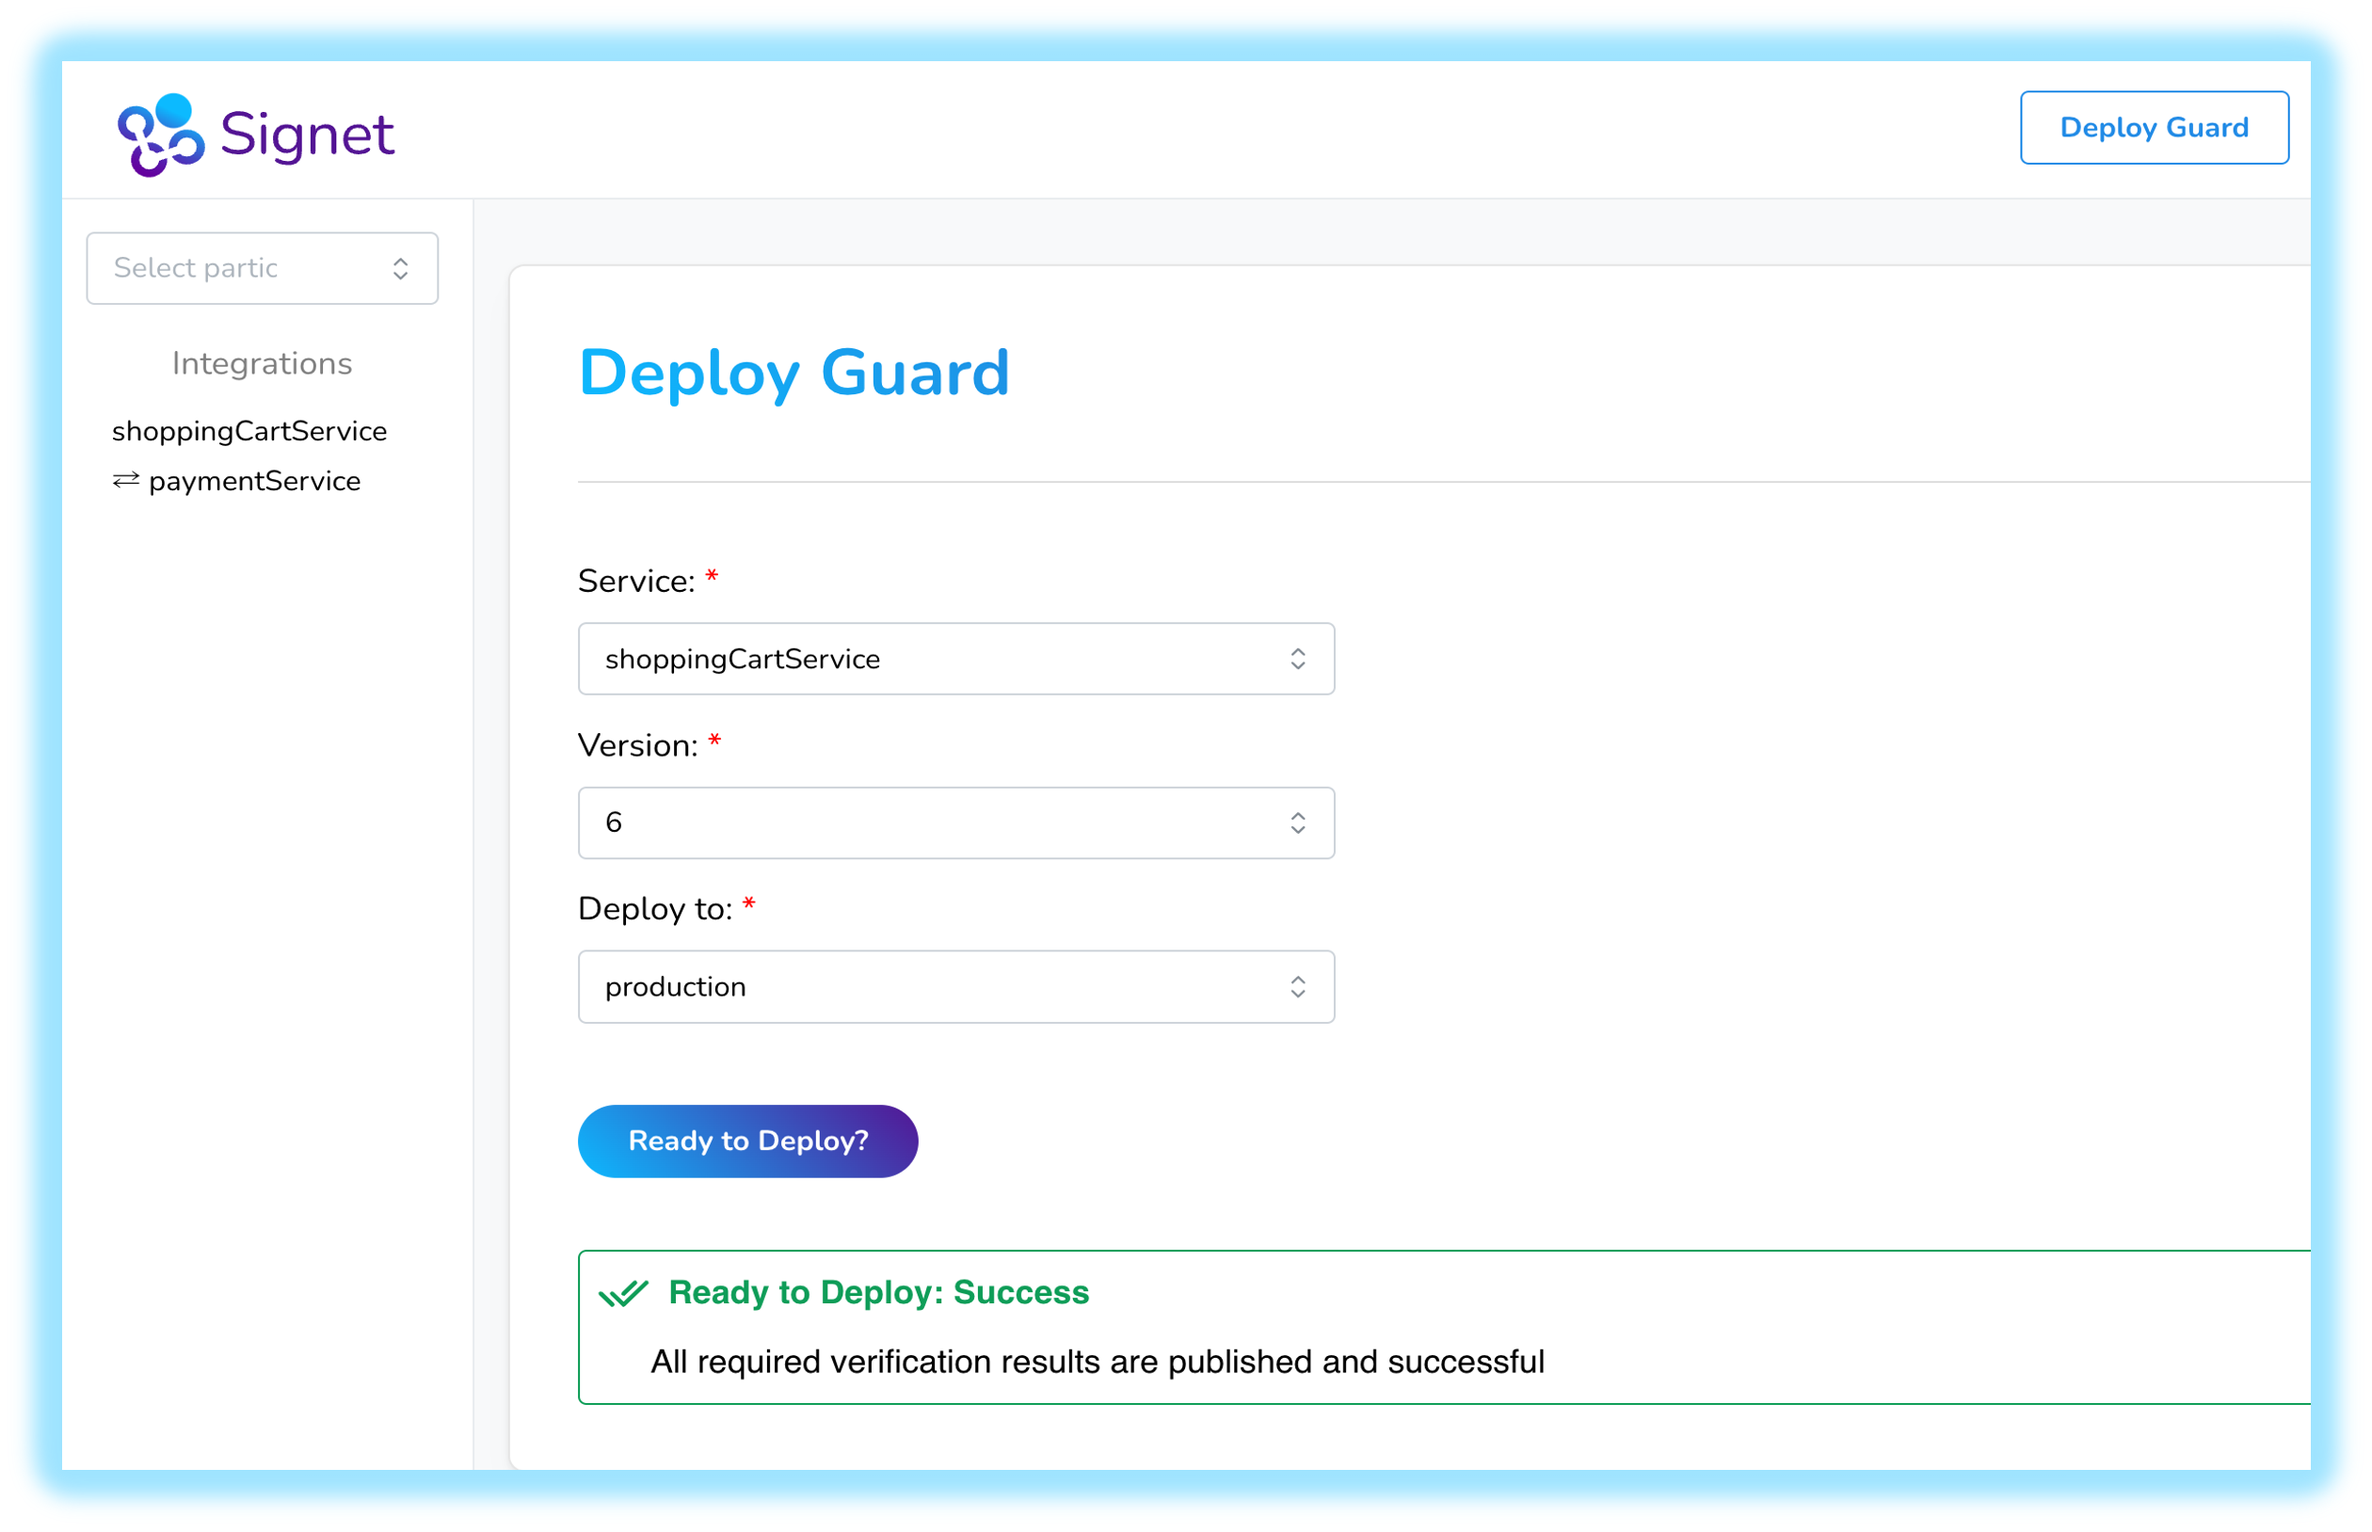
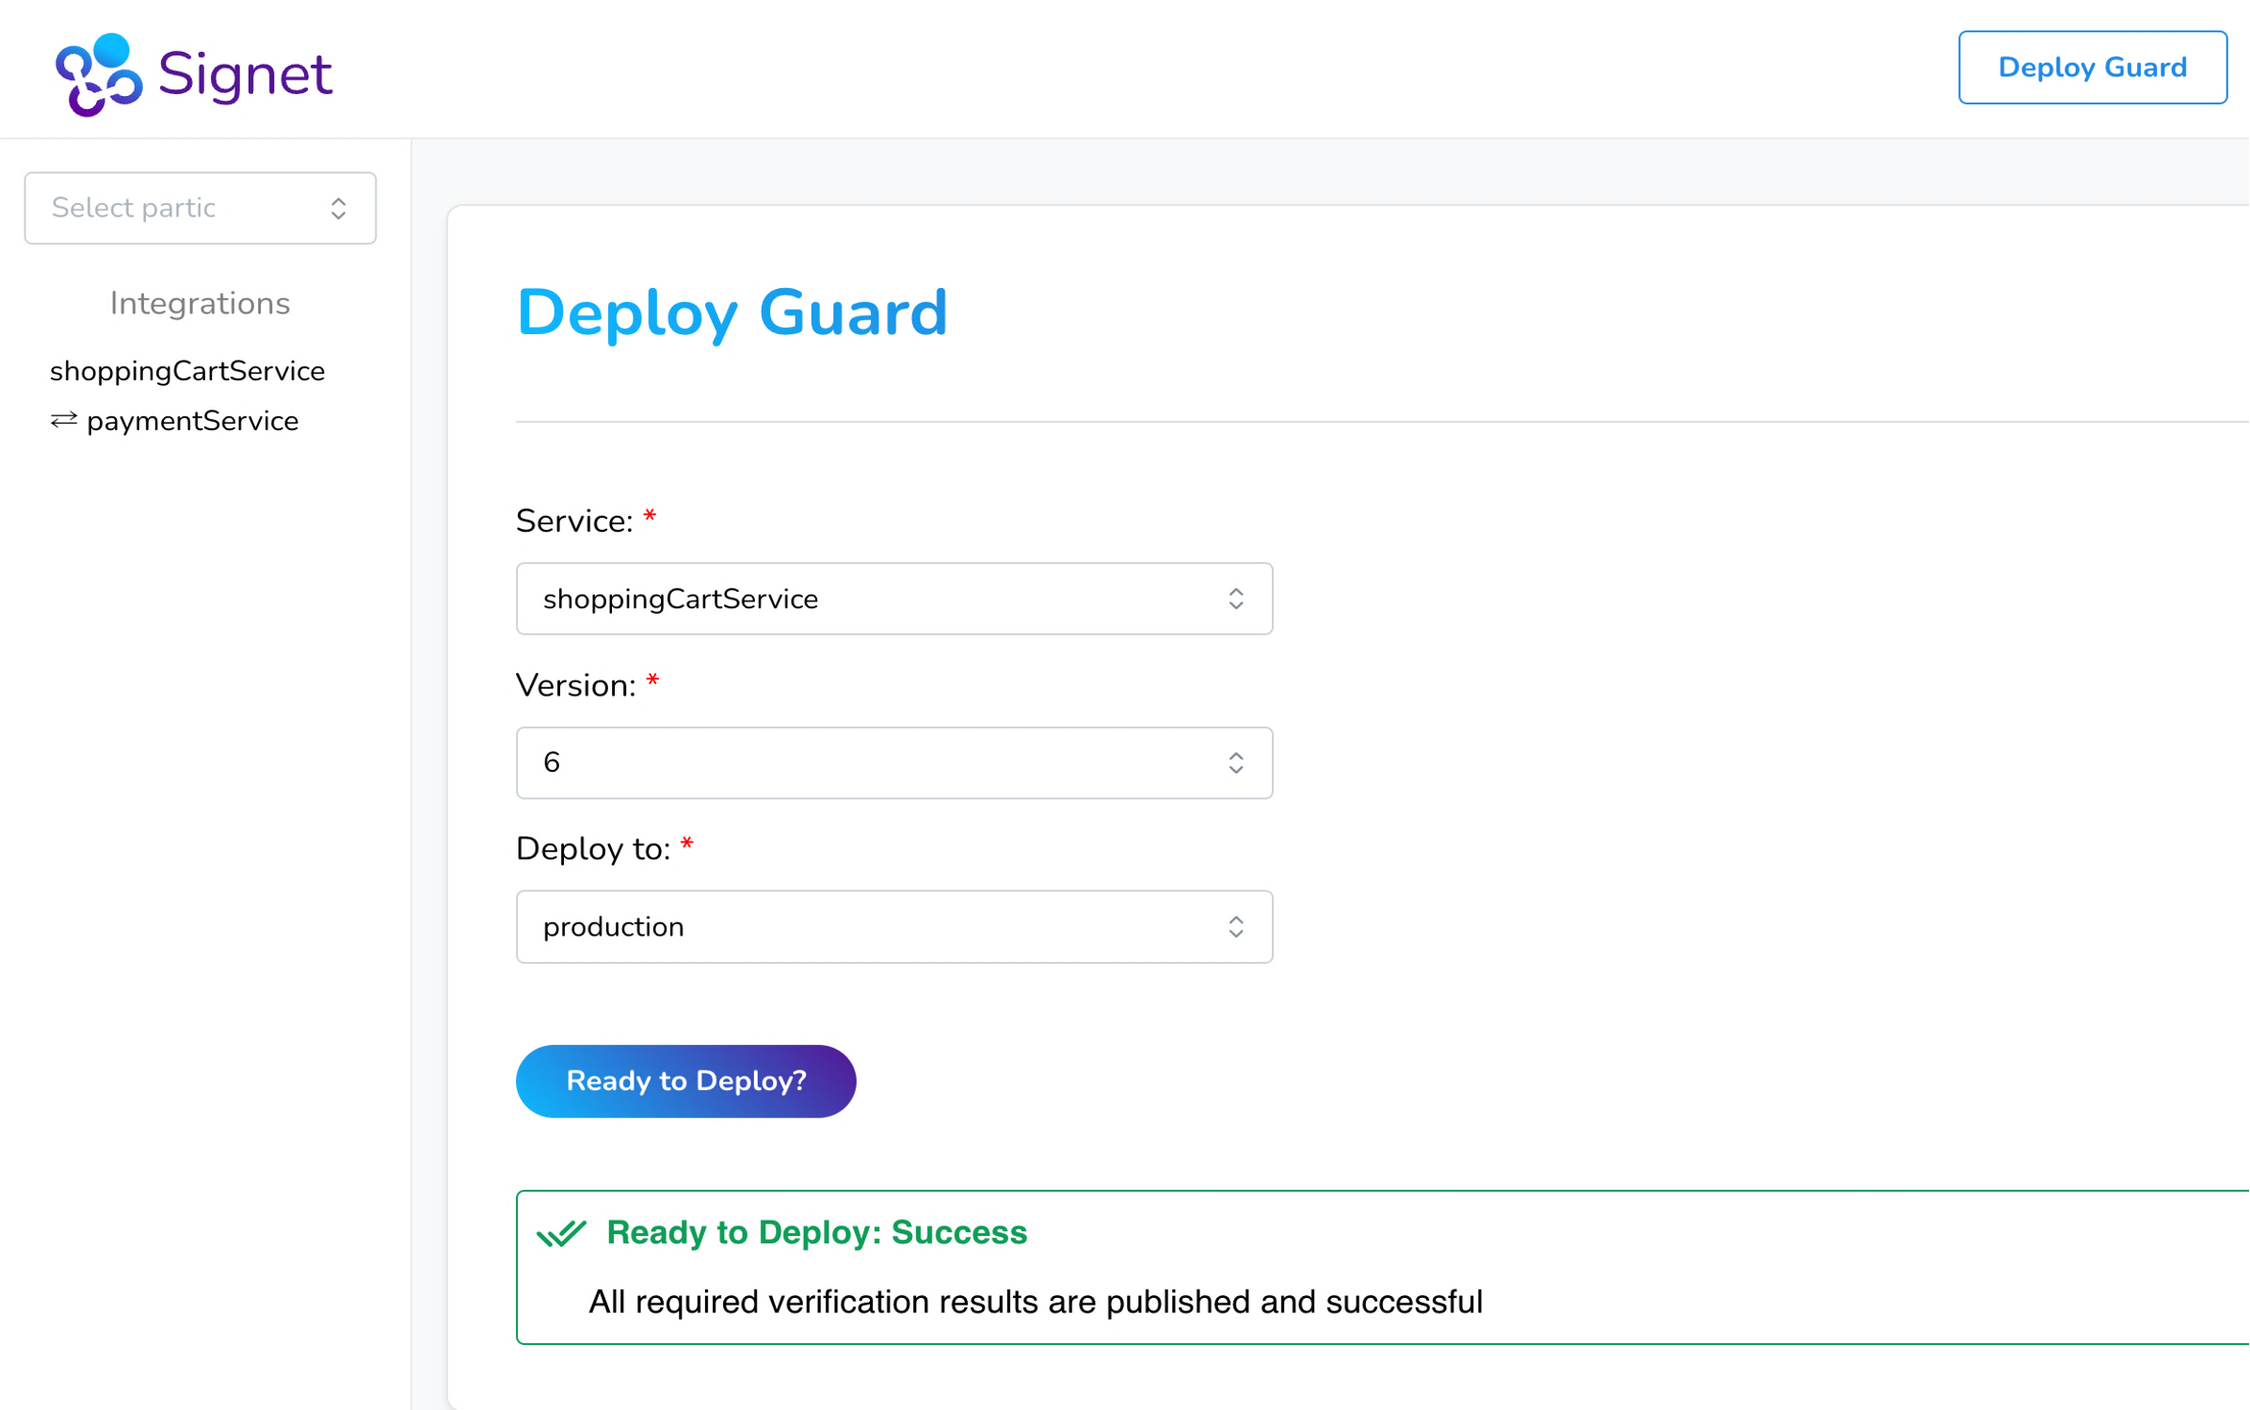
before reorg

diff --git a/theme.config.tsx b/theme.config.tsx
@@ -29,11 +29,14 @@ const config: DocsThemeConfig = {
   head: (
     <>
       <link rel="icon" type="image/ico" href={"/signet-favicon-transparent.ico"} />
+      <link rel="preconnect" href="https://fonts.googleapis.com" />
+      <link rel="preconnect" href="https://fonts.gstatic.com" crossOrigin="true" />
+      <link href="https://fonts.googleapis.com/css2?family=Nunito:ital,wght@0,400;0,700;1,400;1,700&display=swap" rel="stylesheet" />
     </>
   ),
-  // sidebar: {
-  //   defaultMenuCollapseLevel: Infinity,
-  // },
+  sidebar: {
+    defaultMenuCollapseLevel: Infinity,
+  },
   // banner: {
   //   dismissible: true,
   //   text: (

diff --git a/styles.css b/styles.css
@@ -21,7 +21,7 @@ article p img {
   margin-right: auto;
   /* border: 2px solid white; */
   /* padding: 3rem; */
-  /* border-radius: 10px; */
+  /* border-radius: 1rem; */
 }
 
 /* @media (prefers-color-scheme: dark) {
